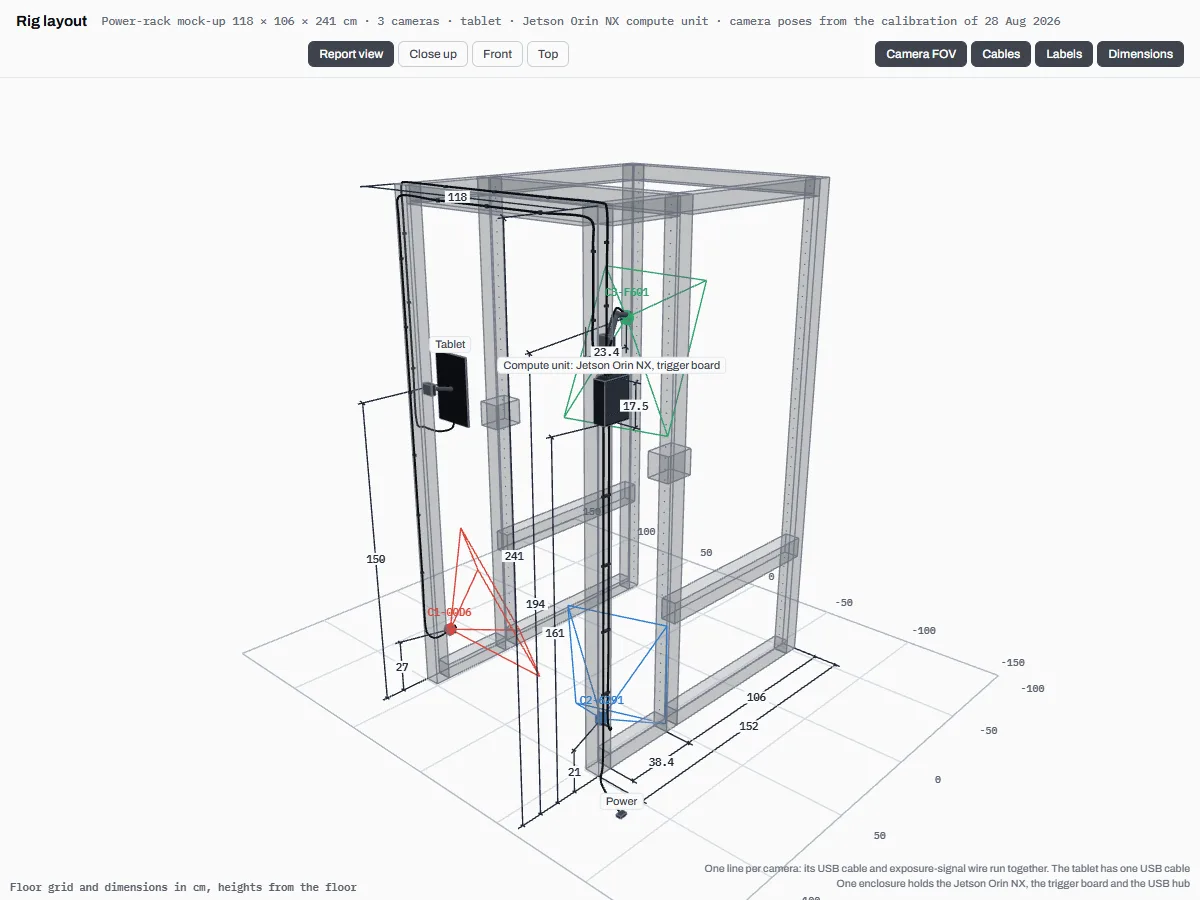
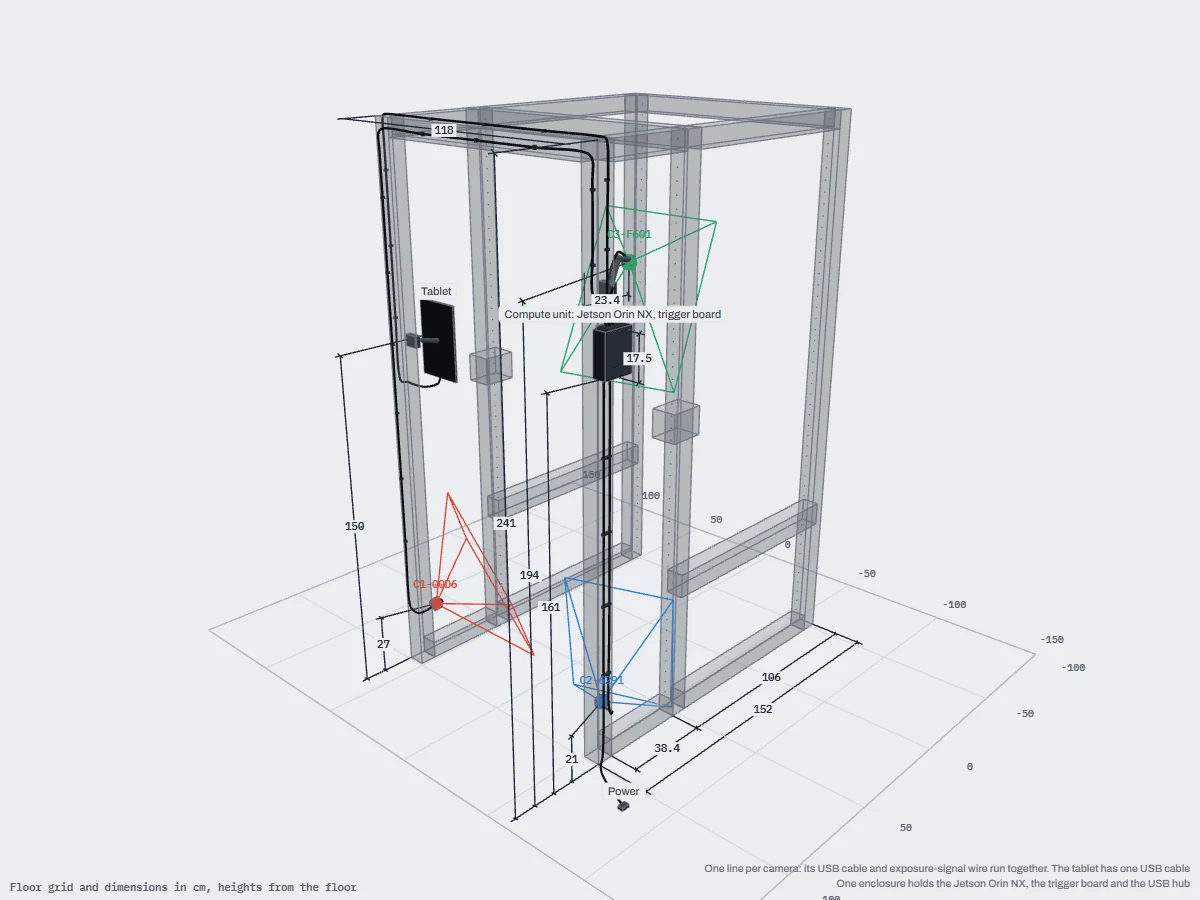
feat: 리그 3D 뷰어를 캔버스만 남김 — 뷰어 안 바와 아래 버튼을 빼고 섹션 바탕색 위에 바로 그림 (#12)

diff --git a/public/hardware/rig.html b/public/hardware/rig.html
@@ -19,16 +19,6 @@
     --line: #E3E6EB; --line-strong: #C9CED6; --accent: #3F444D; --accent-fg: #FFFFFF; }
   html, body { height: 100%; }
   body { margin: 0; background: var(--bg); color: var(--fg); font: 14px/1.5 var(--font); display: flex; flex-direction: column; }
-  #bar { display: flex; flex-wrap: wrap; align-items: center; gap: 8px 14px;
-    padding-block: 10px; padding-left: max(16px, env(safe-area-inset-left, 0px)); padding-right: max(16px, env(safe-area-inset-right, 0px));
-    border-bottom: 1px solid var(--line); background: var(--surface); }
-  #bar h1 { font-size: 15px; font-weight: 700; margin: 0; }
-  #bar .sub { color: var(--fg-3); font: 500 11.5px/1.3 var(--font-mono); min-width: 0; }
-  #bar .grp { display: flex; gap: 4px; flex-wrap: wrap; margin-left: auto; }
-  #bar button { font: 500 12px/1 var(--font); color: var(--fg-2); background: transparent; border: 1px solid var(--line-strong);
-    border-radius: 6px; padding: 6px 10px; cursor: pointer; }
-  #bar button:focus-visible { outline: 2px solid var(--accent); outline-offset: 1px; }
-  #bar button[aria-pressed="true"] { background: var(--accent); color: var(--accent-fg); border-color: var(--accent); }
   #stage { position: relative; flex: 1; min-height: 360px; background: var(--surface); touch-action: none; overflow: hidden; }
   #stage canvas { position: absolute; inset: 0; width: 100%; height: 100%; display: block; }
   #overlay { position: absolute; inset: 0; pointer-events: none; overflow: hidden; }
@@ -44,22 +34,6 @@
 </head>
 <body>
 
-<div id="bar">
-  <h1>Rig layout</h1>
-  <div class="sub">Power-rack mock-up 118 × 106 × 241 cm · 3 cameras · tablet · Jetson Orin NX compute unit · camera poses from the calibration of 28 Aug 2026</div>
-  <div class="grp" role="group" aria-label="View">
-    <button type="button" id="v-report" data-view="report" aria-pressed="true">Report view</button>
-    <button type="button" id="v-gear" data-view="gear" aria-pressed="false">Close up</button>
-    <button type="button" id="v-front" data-view="front" aria-pressed="false">Front</button>
-    <button type="button" id="v-top" data-view="top" aria-pressed="false">Top</button>
-  </div>
-  <div class="grp" role="group" aria-label="Show">
-    <button type="button" id="t-fov" data-toggle="fov" aria-pressed="true">Camera FOV</button>
-    <button type="button" id="t-cable" data-toggle="cable" aria-pressed="true">Cables</button>
-    <button type="button" id="t-label" data-toggle="label" aria-pressed="true">Labels</button>
-    <button type="button" id="t-dim" data-toggle="dim" aria-pressed="true">Dimensions</button>
-  </div>
-</div>
 <div id="stage"><div id="overlay"></div></div>
 
 <script type="module">
@@ -70,7 +44,10 @@ import * as THREE from '/vendor/three/three.module.min.js';
 const stage = document.getElementById('stage'), overlay = document.getElementById('overlay');
 /* 히어로 모드(?hero=1): 랜딩 사이트 배경(#0b0d10) 위에 글자 없이. 막대·이름표·눈금·치수를 숨기고 팔레트만 바꾼다. 기본(설계도) 모습은 그대로 */
 const HERO = new URLSearchParams(location.search).get('hero') === '1';
-if (HERO) { document.getElementById('bar').style.display = 'none'; overlay.style.display = 'none'; document.body.style.background = '#0b0d10'; stage.style.background = '#0b0d10'; }
+// ?bg=eceef1: the page colour behind the drawing, so the frame blends into the page that embeds it
+const BGQ = (new URLSearchParams(location.search).get('bg') || '').replace(/[^0-9a-fA-F]/g, '');
+if (BGQ) { document.documentElement.style.setProperty('--bg', '#' + BGQ); document.documentElement.style.setProperty('--surface', '#' + BGQ); }
+if (HERO) { overlay.style.display = 'none'; document.body.style.background = '#0b0d10'; stage.style.background = '#0b0d10'; }
 const renderer = new THREE.WebGLRenderer({ antialias: true, alpha: true, preserveDrawingBuffer: true });
 renderer.setPixelRatio(Math.min(devicePixelRatio, 2));
 stage.prepend(renderer.domElement);

diff --git a/public/style.css b/public/style.css
@@ -341,12 +341,13 @@ img, video { display: block; max-width: 100%; height: auto; }
 /* the rig: one viewer on a sheet, the part picked beside it */
 .hw { display: grid; grid-template-columns: minmax(0, 7fr) minmax(0, 5fr); gap: clamp(24px, 4vw, 56px); align-items: start; margin-top: clamp(32px, 5vh, 56px); }
 .hw-sheet { padding: 10px; }
-.hw-frame { position: relative; aspect-ratio: 4 / 3; overflow: hidden; border-radius: 4px; background: var(--sheet); }
+/* on the home page the drawing sits straight on the section, no sheet, no border, like the hero */
+.hw-stage { position: relative; }
+.hw-frame { position: relative; aspect-ratio: 4 / 3; overflow: hidden; background: transparent; }
 .hw-frame > * { position: absolute; inset: 0; width: 100%; height: 100%; }
 .hw-frame img { object-fit: cover; }
 .hw-frame iframe { border: 0; opacity: 0; transition: opacity .6s ease; }
 .hw-frame.ready iframe { opacity: 1; }
-.hw-frame:fullscreen { aspect-ratio: auto; border-radius: 0; background: var(--sheet); }
 .hw-bar, .deck-bar { display: flex; justify-content: space-between; align-items: center; gap: 10px 16px; flex-wrap: wrap; padding: 10px 6px 2px; }
 .hw-actions, .deck-actions { display: flex; gap: 8px; flex-wrap: wrap; }
 .hw-tabs { display: flex; gap: 8px; flex-wrap: wrap; margin-bottom: 22px; }
